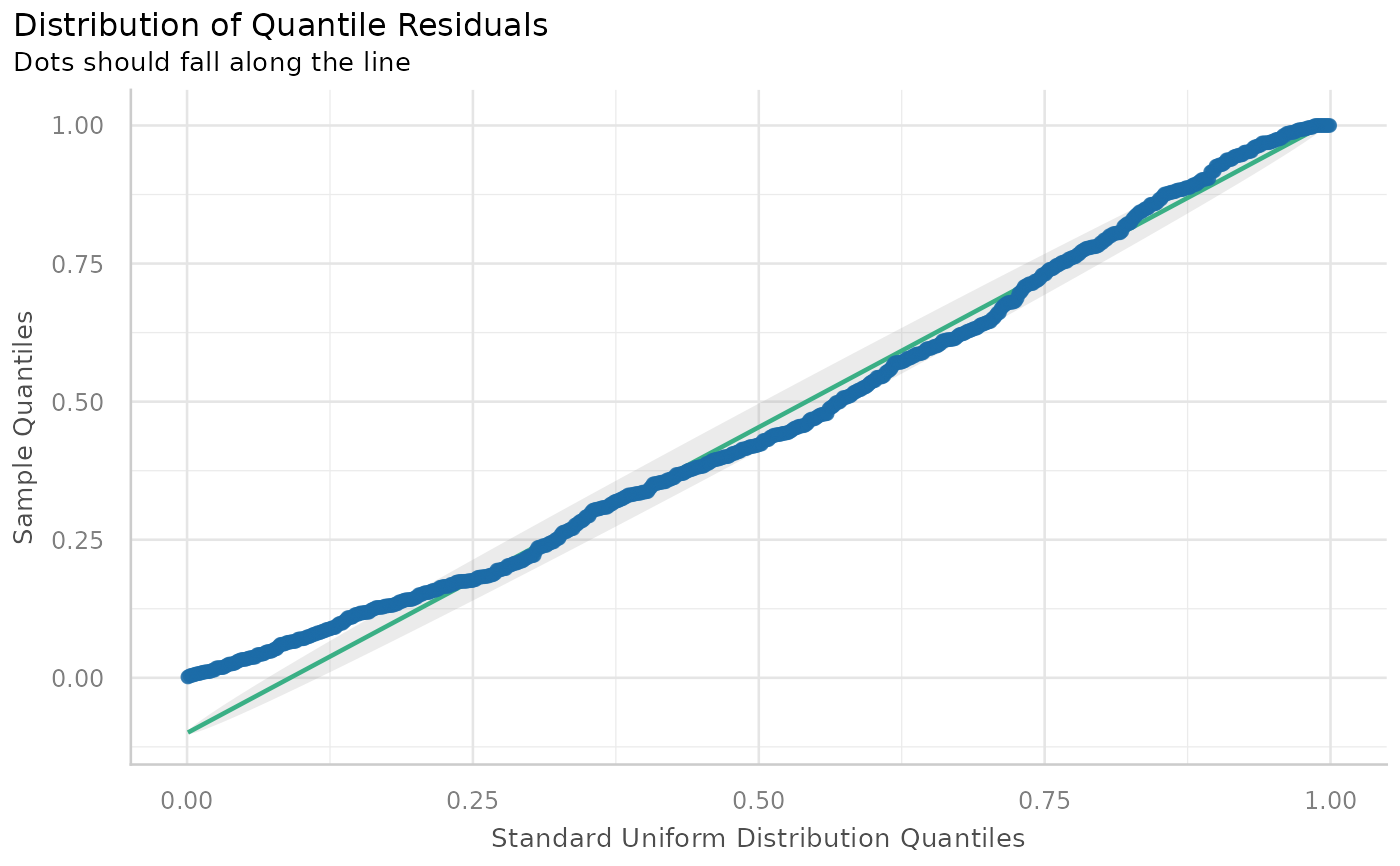
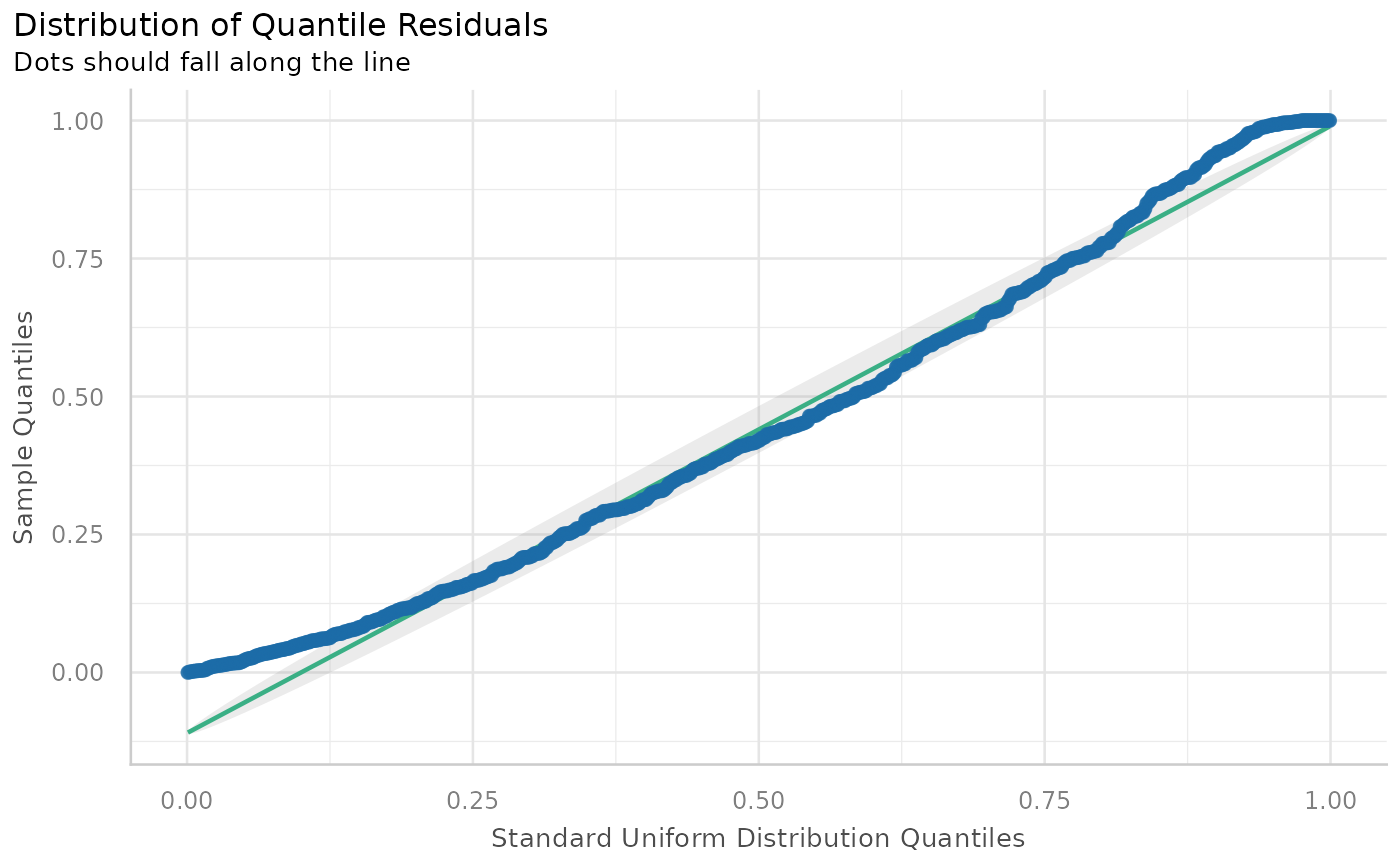
Deploying to gh-pages from @ easystats/see@2e754c9bbc96571de76d4ea1b54c6d472378d944 🚀

diff --git a/reference/index.html b/reference/index.html
@@ -7,7 +7,7 @@
 
     <a class="navbar-brand me-2" href="../index.html">see</a>
 
-    <small class="nav-text text-muted me-auto" data-bs-toggle="tooltip" data-bs-placement="bottom" title="">0.14.0.1</small>
+    <small class="nav-text text-muted me-auto" data-bs-toggle="tooltip" data-bs-placement="bottom" title="">0.14.0.2</small>
 
 
     <button class="navbar-toggler" type="button" data-bs-toggle="collapse" data-bs-target="#navbar" aria-controls="navbar" aria-expanded="false" aria-label="Toggle navigation">
@@ -152,6 +152,13 @@
 
         </dt>
         <dd>Plot method for checking outliers</dd>
+
+        <dt>
+
+          <code><a href="plot.see_check_priors.html">plot(<i>&lt;see_check_priors&gt;</i>)</a></code>
+
+        </dt>
+        <dd>Plot method for prior predictive checks</dd>
 
         <dt>
 

diff --git a/404.html b/404.html
@@ -33,7 +33,7 @@
 
     <a class="navbar-brand me-2" href="https://easystats.github.io/see/index.html">see</a>
 
-    <small class="nav-text text-muted me-auto" data-bs-toggle="tooltip" data-bs-placement="bottom" title="">0.14.0.1</small>
+    <small class="nav-text text-muted me-auto" data-bs-toggle="tooltip" data-bs-placement="bottom" title="">0.14.0.2</small>
 
 
     <button class="navbar-toggler" type="button" data-bs-toggle="collapse" data-bs-target="#navbar" aria-controls="navbar" aria-expanded="false" aria-label="Toggle navigation">

diff --git a/CODE_OF_CONDUCT.html b/CODE_OF_CONDUCT.html
@@ -7,7 +7,7 @@
 
     <a class="navbar-brand me-2" href="index.html">see</a>
 
-    <small class="nav-text text-muted me-auto" data-bs-toggle="tooltip" data-bs-placement="bottom" title="">0.14.0.1</small>
+    <small class="nav-text text-muted me-auto" data-bs-toggle="tooltip" data-bs-placement="bottom" title="">0.14.0.2</small>
 
 
     <button class="navbar-toggler" type="button" data-bs-toggle="collapse" data-bs-target="#navbar" aria-controls="navbar" aria-expanded="false" aria-label="Toggle navigation">

diff --git a/CONTRIBUTING.html b/CONTRIBUTING.html
@@ -7,7 +7,7 @@
 
     <a class="navbar-brand me-2" href="index.html">see</a>
 
-    <small class="nav-text text-muted me-auto" data-bs-toggle="tooltip" data-bs-placement="bottom" title="">0.14.0.1</small>
+    <small class="nav-text text-muted me-auto" data-bs-toggle="tooltip" data-bs-placement="bottom" title="">0.14.0.2</small>
 
 
     <button class="navbar-toggler" type="button" data-bs-toggle="collapse" data-bs-target="#navbar" aria-controls="navbar" aria-expanded="false" aria-label="Toggle navigation">

diff --git a/LICENSE-text.html b/LICENSE-text.html
@@ -7,7 +7,7 @@
 
     <a class="navbar-brand me-2" href="index.html">see</a>
 
-    <small class="nav-text text-muted me-auto" data-bs-toggle="tooltip" data-bs-placement="bottom" title="">0.14.0.1</small>
+    <small class="nav-text text-muted me-auto" data-bs-toggle="tooltip" data-bs-placement="bottom" title="">0.14.0.2</small>
 
 
     <button class="navbar-toggler" type="button" data-bs-toggle="collapse" data-bs-target="#navbar" aria-controls="navbar" aria-expanded="false" aria-label="Toggle navigation">

diff --git a/LICENSE.html b/LICENSE.html
@@ -7,7 +7,7 @@
 
     <a class="navbar-brand me-2" href="index.html">see</a>
 
-    <small class="nav-text text-muted me-auto" data-bs-toggle="tooltip" data-bs-placement="bottom" title="">0.14.0.1</small>
+    <small class="nav-text text-muted me-auto" data-bs-toggle="tooltip" data-bs-placement="bottom" title="">0.14.0.2</small>
 
 
     <button class="navbar-toggler" type="button" data-bs-toggle="collapse" data-bs-target="#navbar" aria-controls="navbar" aria-expanded="false" aria-label="Toggle navigation">

diff --git a/SUPPORT.html b/SUPPORT.html
@@ -7,7 +7,7 @@
 
     <a class="navbar-brand me-2" href="index.html">see</a>
 
-    <small class="nav-text text-muted me-auto" data-bs-toggle="tooltip" data-bs-placement="bottom" title="">0.14.0.1</small>
+    <small class="nav-text text-muted me-auto" data-bs-toggle="tooltip" data-bs-placement="bottom" title="">0.14.0.2</small>
 
 
     <button class="navbar-toggler" type="button" data-bs-toggle="collapse" data-bs-target="#navbar" aria-controls="navbar" aria-expanded="false" aria-label="Toggle navigation">

diff --git a/articles/bayestestR.html b/articles/bayestestR.html
@@ -29,7 +29,7 @@
 
     <a class="navbar-brand me-2" href="../index.html">see</a>
 
-    <small class="nav-text text-muted me-auto" data-bs-toggle="tooltip" data-bs-placement="bottom" title="">0.14.0.1</small>
+    <small class="nav-text text-muted me-auto" data-bs-toggle="tooltip" data-bs-placement="bottom" title="">0.14.0.2</small>
 
 
     <button class="navbar-toggler" type="button" data-bs-toggle="collapse" data-bs-target="#navbar" aria-controls="navbar" aria-expanded="false" aria-label="Toggle navigation">

diff --git a/articles/correlation.html b/articles/correlation.html
@@ -29,7 +29,7 @@
 
     <a class="navbar-brand me-2" href="../index.html">see</a>
 
-    <small class="nav-text text-muted me-auto" data-bs-toggle="tooltip" data-bs-placement="bottom" title="">0.14.0.1</small>
+    <small class="nav-text text-muted me-auto" data-bs-toggle="tooltip" data-bs-placement="bottom" title="">0.14.0.2</small>
 
 
     <button class="navbar-toggler" type="button" data-bs-toggle="collapse" data-bs-target="#navbar" aria-controls="navbar" aria-expanded="false" aria-label="Toggle navigation">

diff --git a/articles/datawizard.html b/articles/datawizard.html
@@ -29,7 +29,7 @@
 
     <a class="navbar-brand me-2" href="../index.html">see</a>
 
-    <small class="nav-text text-muted me-auto" data-bs-toggle="tooltip" data-bs-placement="bottom" title="">0.14.0.1</small>
+    <small class="nav-text text-muted me-auto" data-bs-toggle="tooltip" data-bs-placement="bottom" title="">0.14.0.2</small>
 
 
     <button class="navbar-toggler" type="button" data-bs-toggle="collapse" data-bs-target="#navbar" aria-controls="navbar" aria-expanded="false" aria-label="Toggle navigation">

diff --git a/articles/effectsize.html b/articles/effectsize.html
@@ -29,7 +29,7 @@
 
     <a class="navbar-brand me-2" href="../index.html">see</a>
 
-    <small class="nav-text text-muted me-auto" data-bs-toggle="tooltip" data-bs-placement="bottom" title="">0.14.0.1</small>
+    <small class="nav-text text-muted me-auto" data-bs-toggle="tooltip" data-bs-placement="bottom" title="">0.14.0.2</small>
 
 
     <button class="navbar-toggler" type="button" data-bs-toggle="collapse" data-bs-target="#navbar" aria-controls="navbar" aria-expanded="false" aria-label="Toggle navigation">

diff --git a/articles/index.html b/articles/index.html
@@ -7,7 +7,7 @@
 
     <a class="navbar-brand me-2" href="../index.html">see</a>
 
-    <small class="nav-text text-muted me-auto" data-bs-toggle="tooltip" data-bs-placement="bottom" title="">0.14.0.1</small>
+    <small class="nav-text text-muted me-auto" data-bs-toggle="tooltip" data-bs-placement="bottom" title="">0.14.0.2</small>
 
 
     <button class="navbar-toggler" type="button" data-bs-toggle="collapse" data-bs-target="#navbar" aria-controls="navbar" aria-expanded="false" aria-label="Toggle navigation">